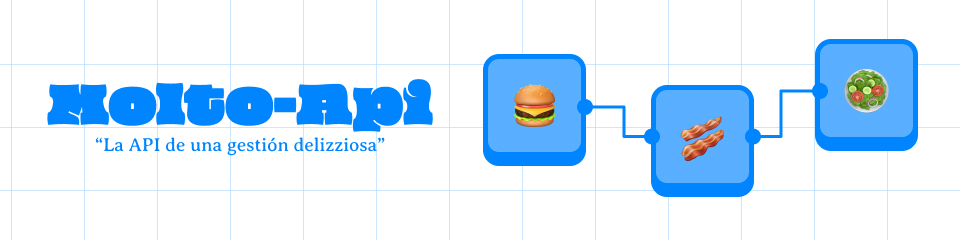
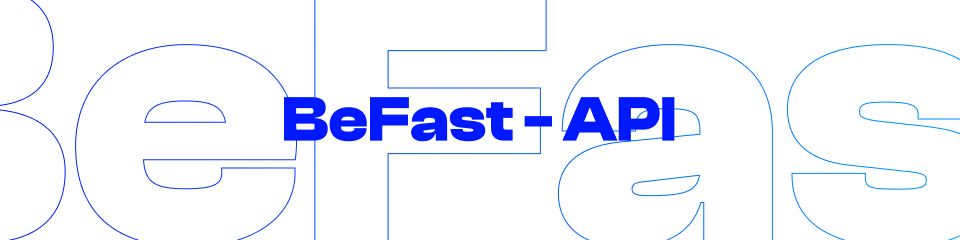
renaming moltodeli to befast

diff --git a/connection/connection.py b/connection/connection.py
@@ -1,10 +1,11 @@
 import mysql.connector
 
+
 class Conecction:
     __host = "localhost"
     __user = "root"
     __password = ""
-    __database = "moltodeli"
+    __database = "befast"
     connection = None
 
     def __init__(self):
@@ -13,14 +14,14 @@ class Conecction:
         self.__password = self.__password
         self.__database = self.__database
         self.connection = self.connection
-    
+
     def conectar(self):
         try:
             self.connection = mysql.connector.connect(
-                host = self.__host,
-                user = self.__user,
-                password = self.__password,
-                database = self.__database
+                host=self.__host,
+                user=self.__user,
+                password=self.__password,
+                database=self.__database,
             )
             if self.connection.is_connected():
                 print("Succefull Connection")
@@ -35,7 +36,7 @@ class Conecction:
         except:
             print("No connection")
 
-    def consultaDB(self, consulta, tipoConsulta, parametros= None):
+    def consultaDB(self, consulta, tipoConsulta, parametros=None):
         cursor = self.connection.cursor()
         if parametros:
             if tipoConsulta == 1:

diff --git a/main.py b/main.py
@@ -17,7 +17,7 @@ app.add_middleware(
 # Raiz
 @app.get("/api/")
 def raiz():
-    return {"Hola": " Molto Deli"}
+    return {"Hola": "BeFast"}
 
 
 @app.post("/api/usuario")

diff --git a/README.md b/README.md
@@ -1,19 +1,19 @@
-![MoltodeliApi Banner](./assets/images/banner.jpg)
+![BeFast Banner](./assets/images/banner.jpg)
 
-La API de Moltodeli creada con Python con colaboración de [Kanna](https://github.com/bony24).
+La API de BeFast creada con Python con colaboración de [Kanna](https://github.com/bony24) y Kurizu.
 
 ## Iniciando el proyecto
 
 Antes de empezar con todo el código lo primero es iniciar el programa para poder hacer las pruebas de la forma que más te pueda acomodar, por lo que lo haremos de una forma sencilla, lo primero sera clonar el repositorio en nuestro equipo lo que se hace de la siguiente manera.
 
 ```git
-git clone https://github.com/damkandev/moltodeli-api.git
+git clone https://github.com/damkandev/befast-api.git
 ```
 
 una vez lo hayamos clonado lo que haremos sera ingresar al directorio usando el tradicional comando de change directory:
 
 ```console
-cd ./moltodeli-api
+cd ./befast-api
 ```
 
 y lo primero sera instalar los requerimientos que nos pedira python haciendo uso del siguiente comando:

diff --git a/docs/es/connection.md b/docs/es/connection.md
@@ -1,6 +1,6 @@
 # Connection (Conexión)
 
-En este directorio tenemos 2 archivos que son `connection.py` y `moltodeli.sql`, estos dos archivos son muy importantes por lo que si algo llega a fallar dentro de estos el proyecto muy probablemente deje de funcionar, así que no los toques si no sabes lo que estas haciendo.
+En este directorio tenemos 2 archivos que son `connection.py` y `befast.sql`, estos dos archivos son muy importantes por lo que si algo llega a fallar dentro de estos el proyecto muy probablemente deje de funcionar, así que no los toques si no sabes lo que estas haciendo.
 
 En este archivo principalmente creamos una clase `Connection` en la cual nos encargamos de definir los atributos de la conexión a la base de datos, dando la dirección, usuario y contraseña.
 
